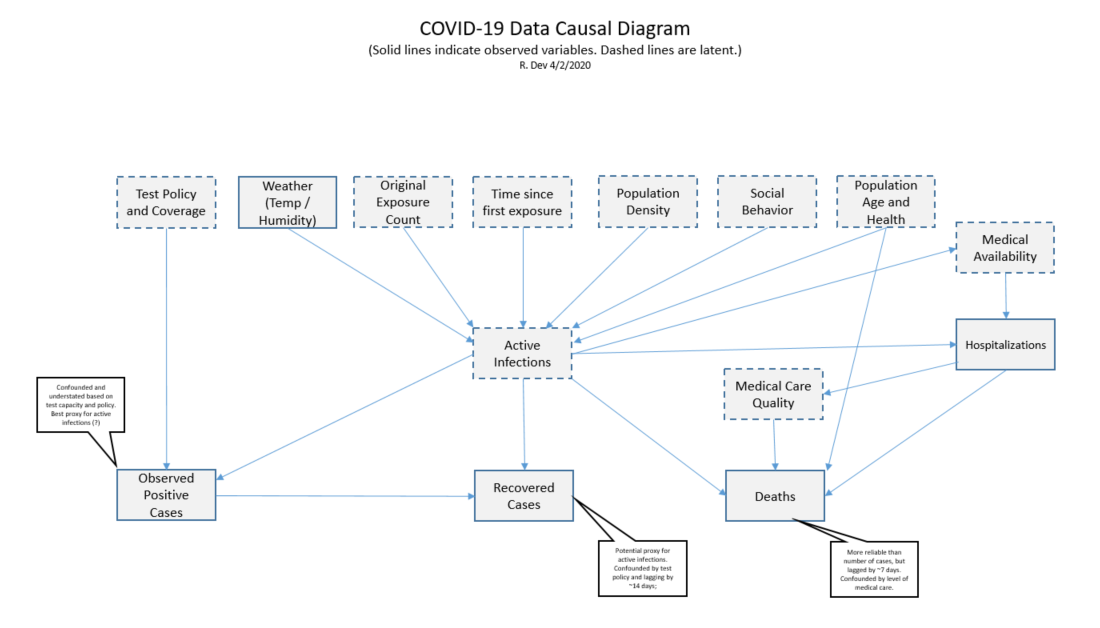
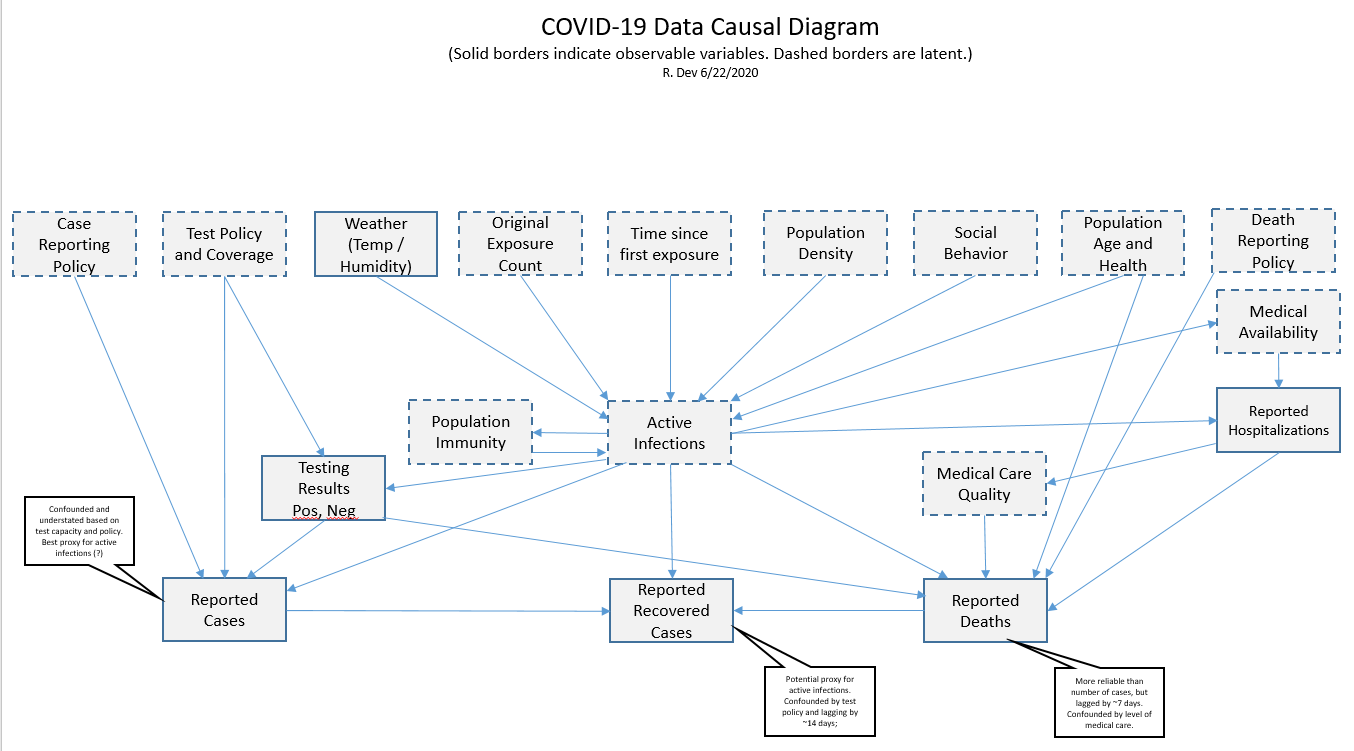
Update causal diagram.  Fix typo in readme.  Fix Emerging state requirements.

diff --git a/Readme.md b/Readme.md
@@ -90,5 +90,5 @@ The system provides a friendly web-based interface for viewing COVID-19 data and
 
 The user interface provides several ways to navigate:
 * _Map View_ shows aspects of the infection through color codings on a map.  The map can be color coded by a number of attributes including Infection State, New Cases, New Deaths, Cases per 100K, Deaths per 100K, Total Cases and Total Deaths.
-* _Hotspots View_ orders the locations by _Heat Index_,  showing a triage list of locations and a description of their state.  All details can be by clicking on any of the Hotspot locations.
+* _Hotspots View_ orders the locations by _Heat Index_,  showing a triage list of locations and a description of their state.  All details can be seen by clicking on any of the Hotspot locations.
 * _Comparison View_ allows simultaneous viewing of statistics from multiple selected locations of interest.
